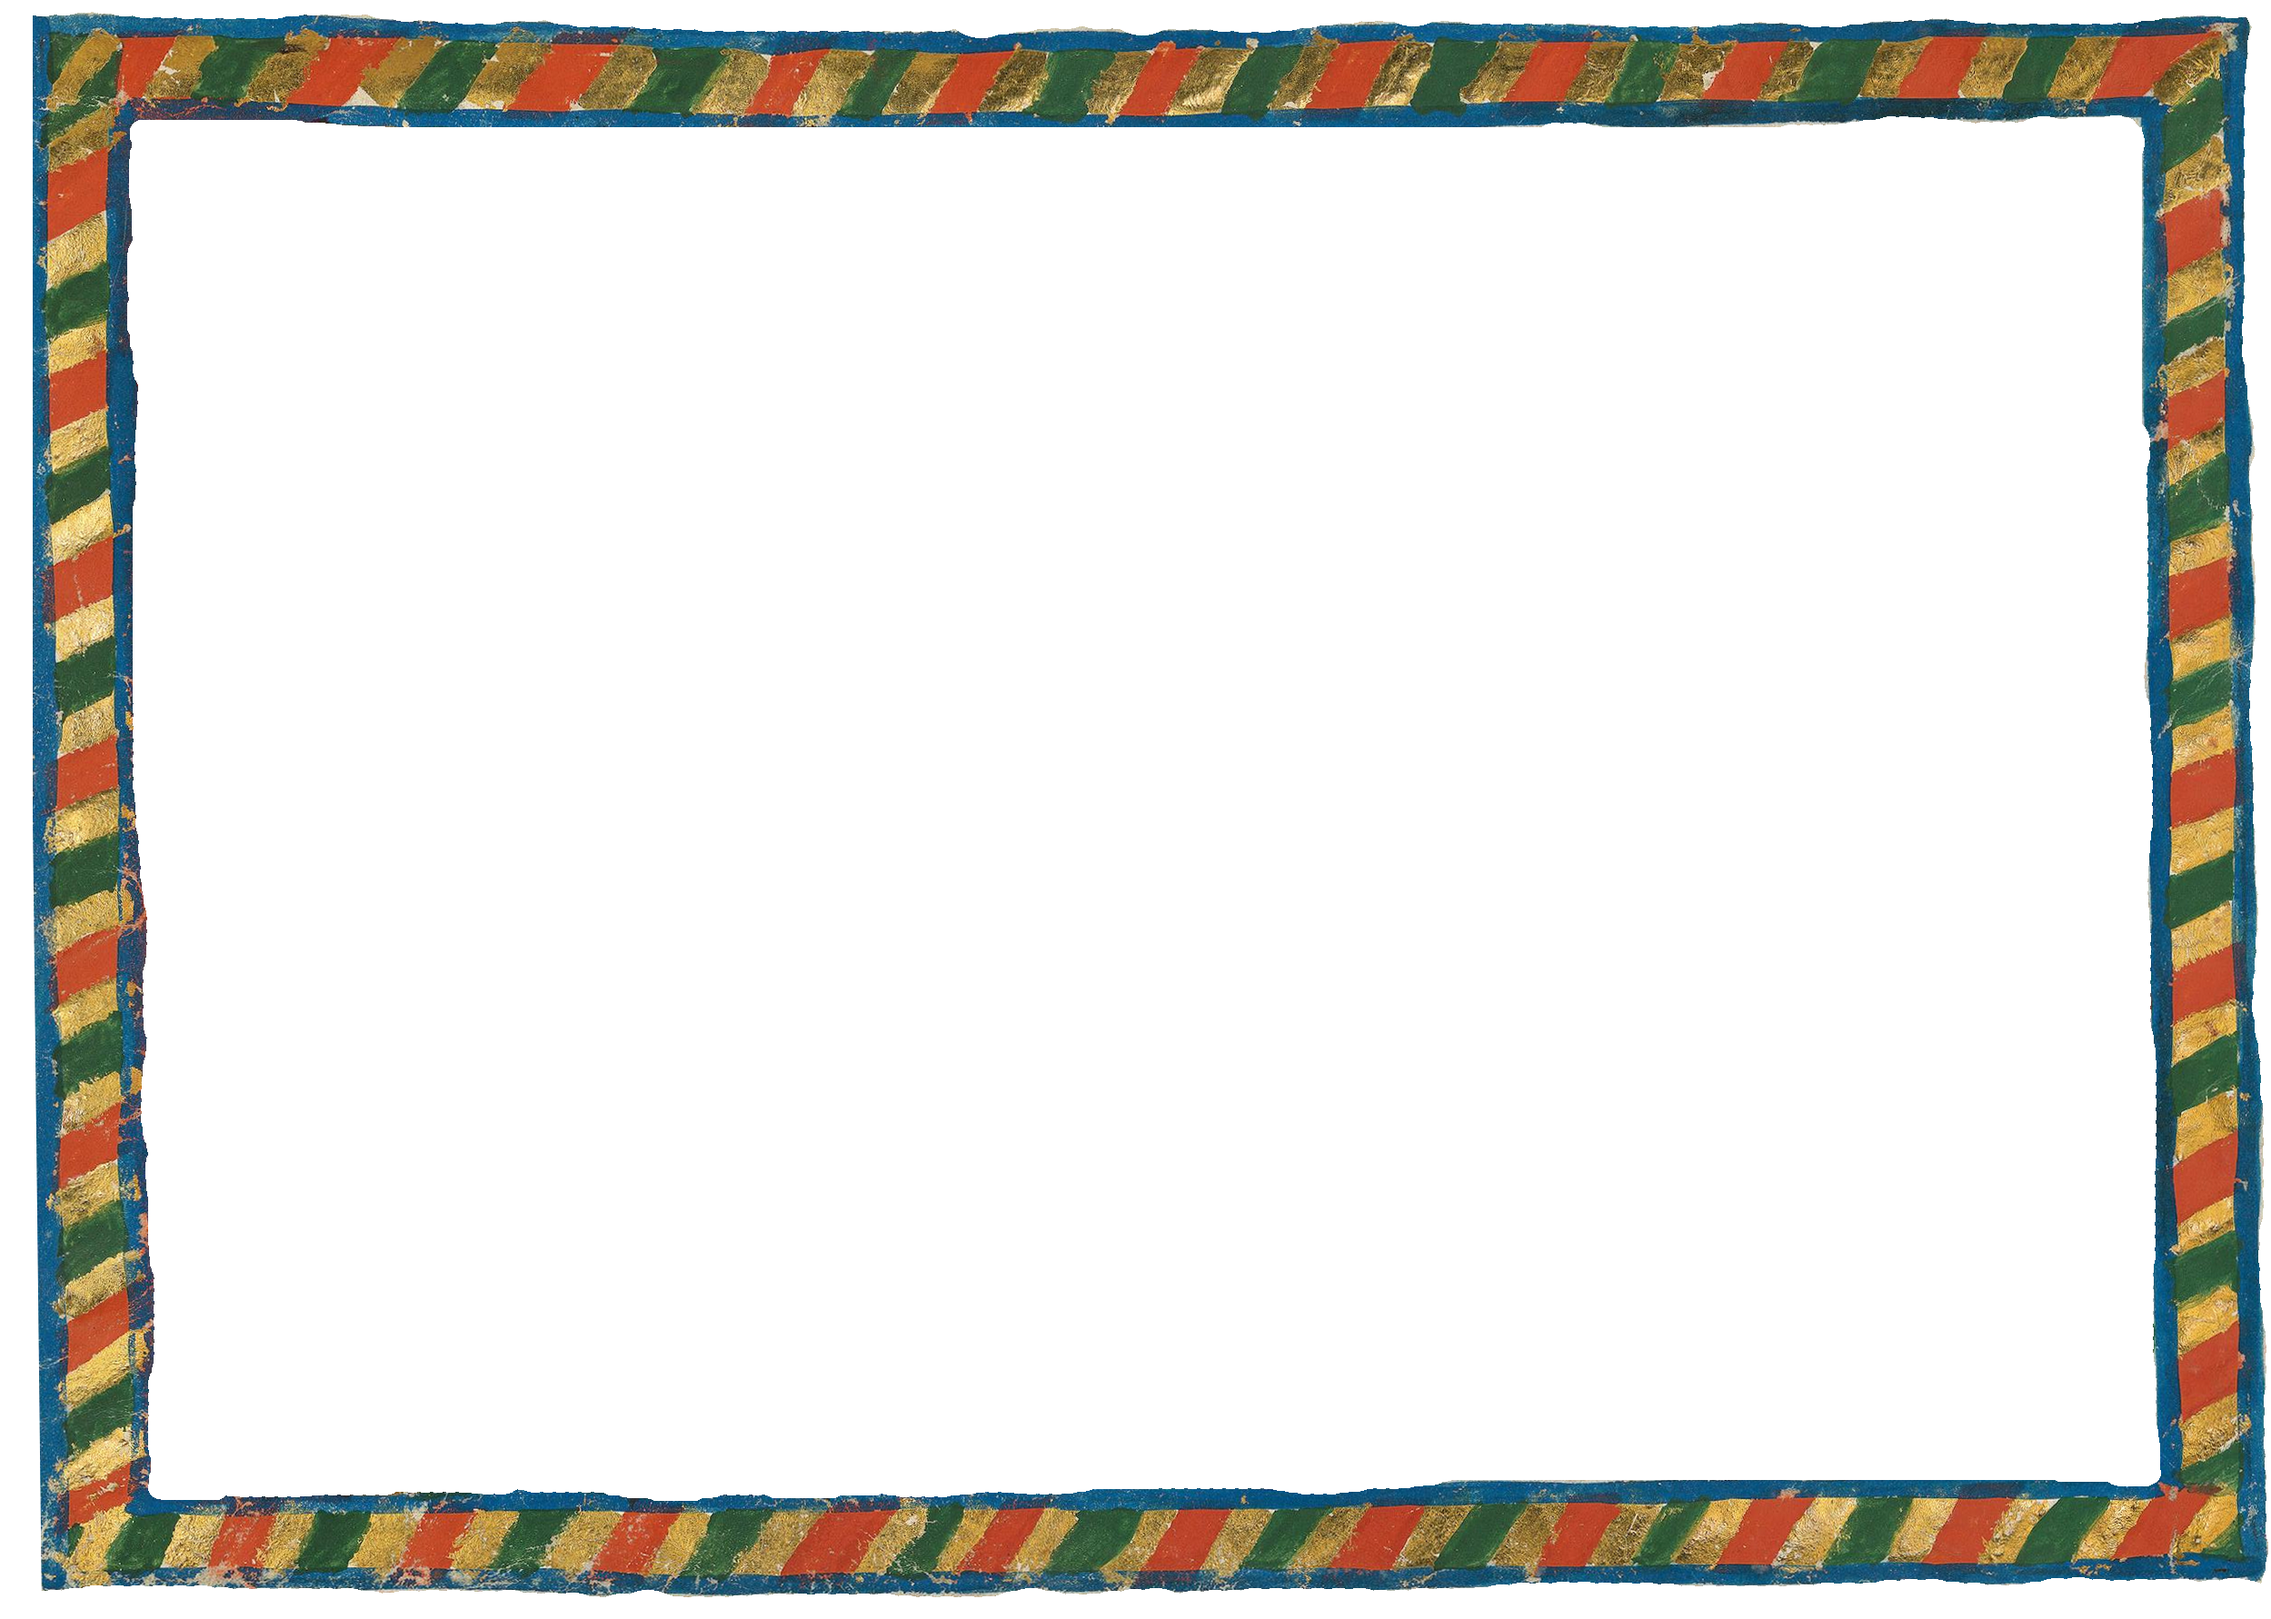
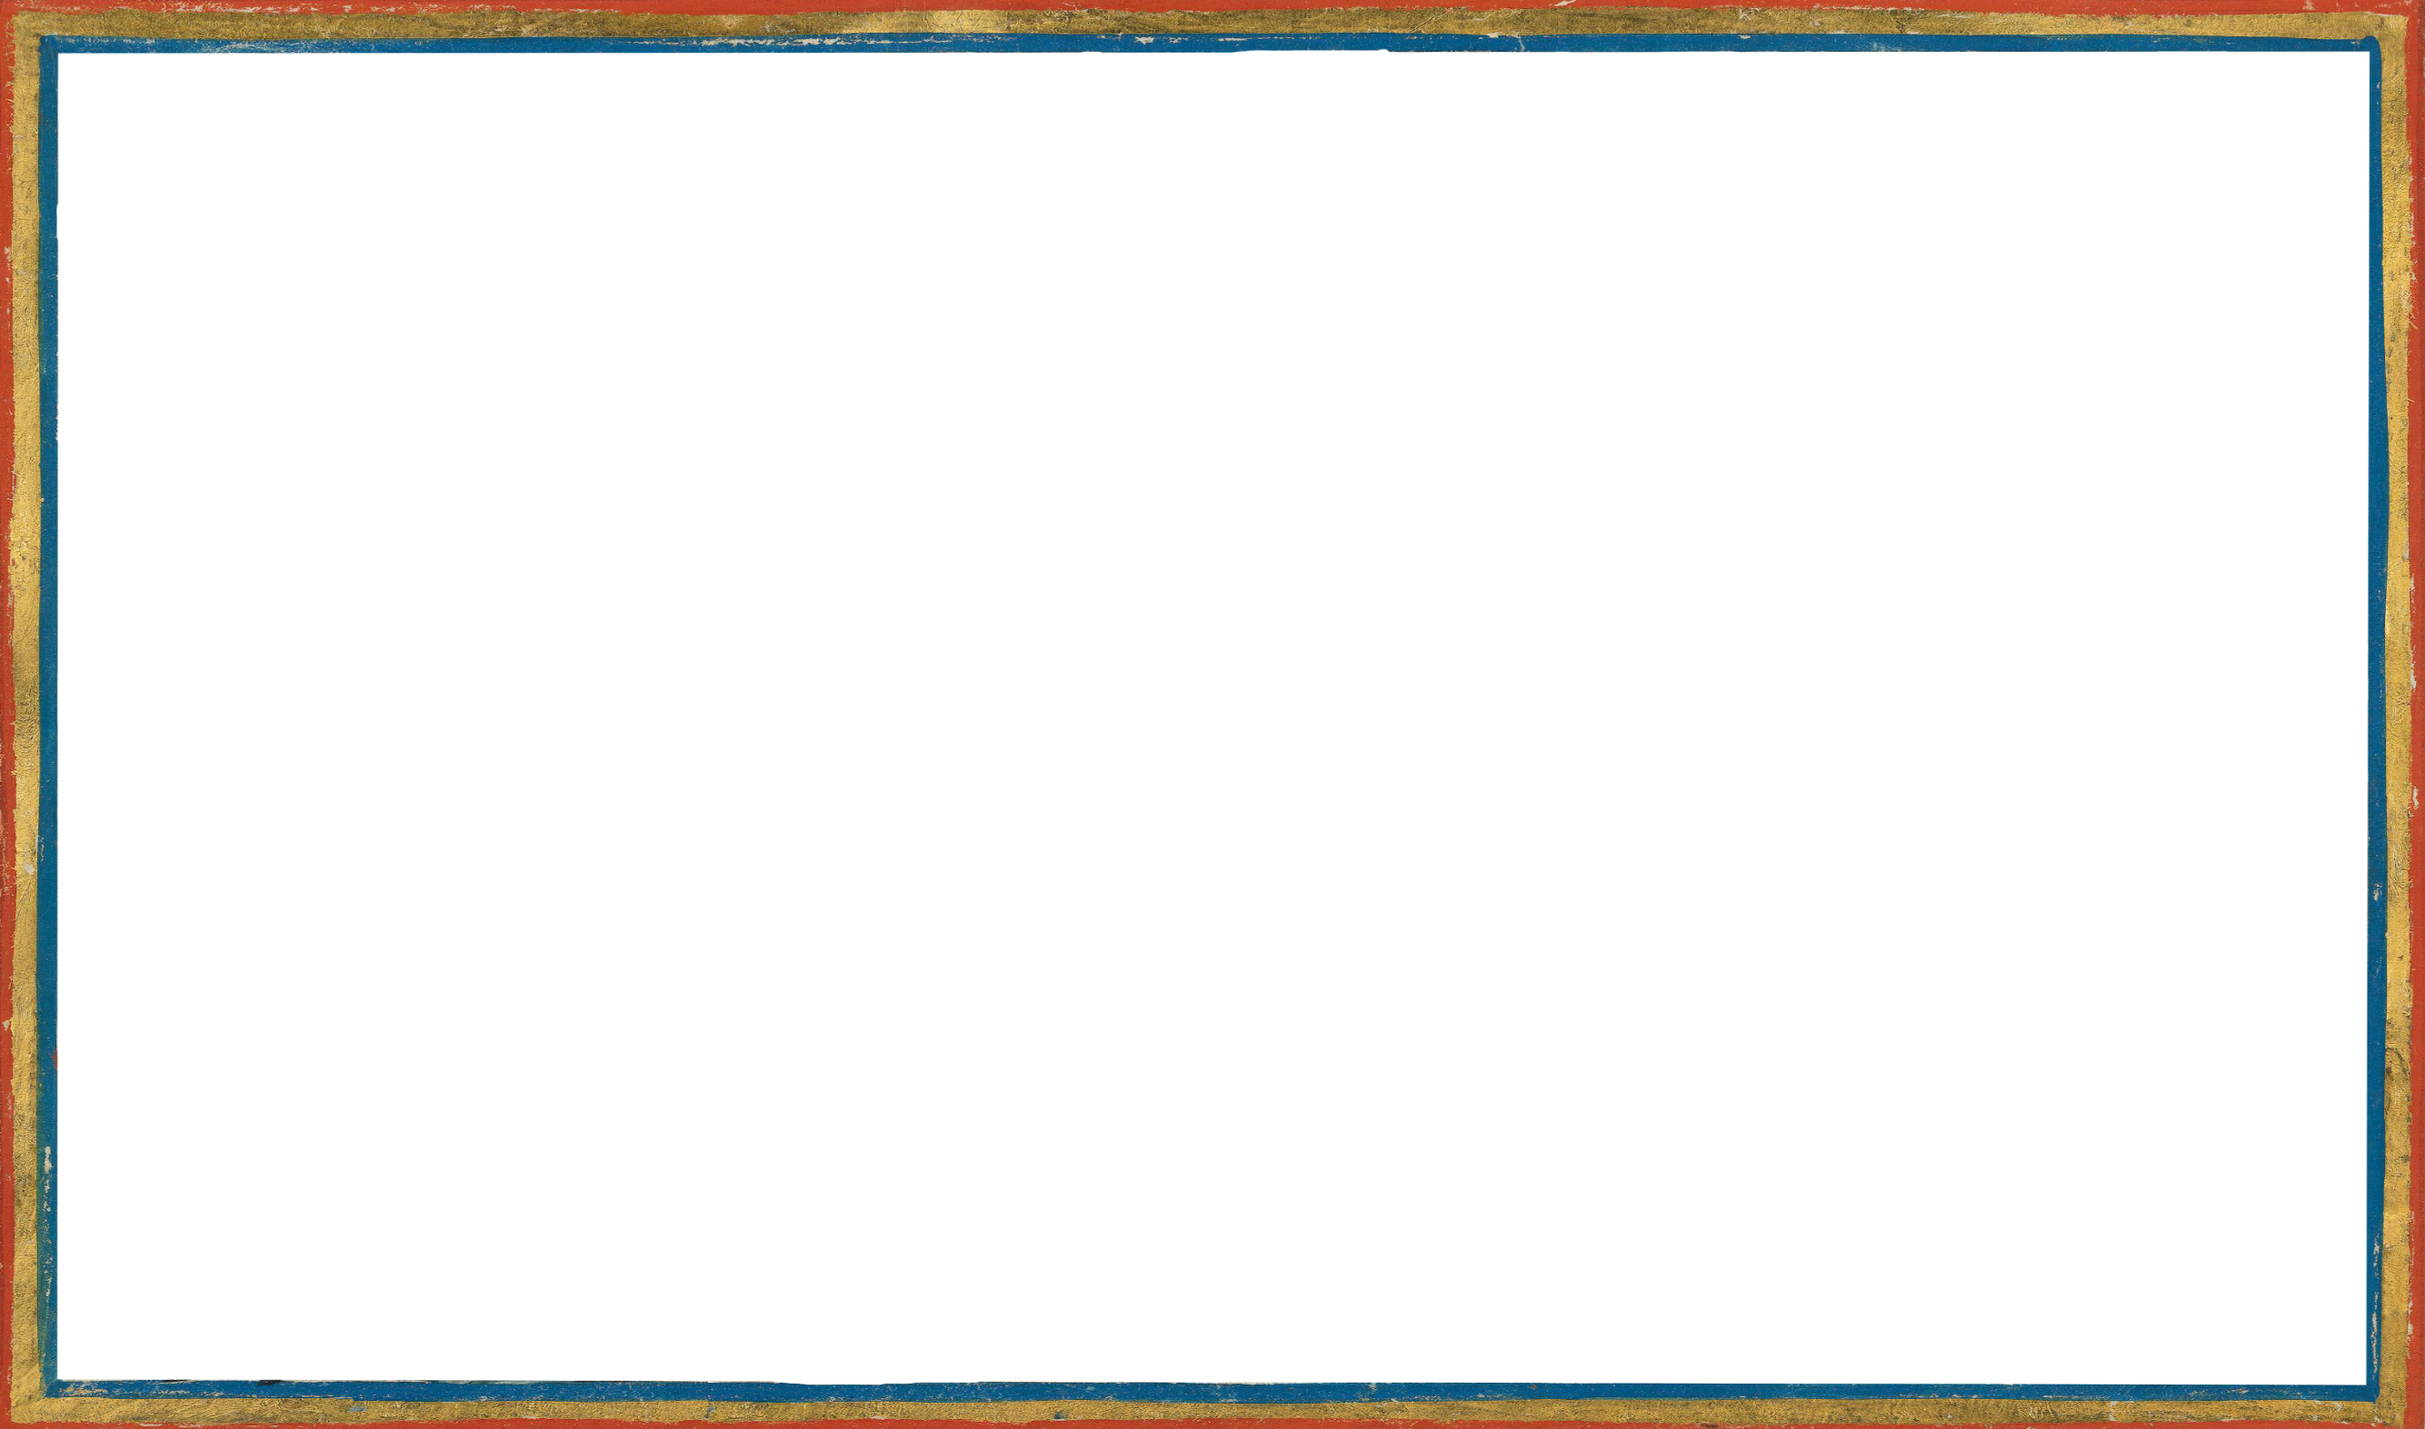
frame?

Changed region(s): [[0.0, 0.0, 1.0, 1.0]]

diff --git a/style.css b/style.css
@@ -35,10 +35,16 @@ body {
     height: 100%;
     justify-items: center;
     min-height: 500px;
+
+/* Css variables - Main layout */
+
+    --container-height: 94vh;
+    --container-width: calc(var(--container-height) * 18 / 9);
 }
 
-/* Container - CSS Variables defined here */
+/* Container - CSS Variables */
 .container {
+
     /* Position variables for interactive elements */
     --dovecot-right: 10%;
     --dovecot-bottom: 18%;
@@ -50,16 +56,30 @@ body {
     --sun-top: 30%;
     
     position: relative;
-    border: solid 10px black;
-    border-radius: 10px;
-    height: 94vh;
+    top: 2vh;
+    height: var(--container-height);
     margin: auto;
-    max-width: 1800px;
-    min-height: 600px;
-    min-width: 1100px;
+    min-height: 800px;
+    max-height: 1000px;
+    min-width: 1420px;
+    max-width: 1750px;
     overflow: hidden;
-    width: 94vw;
+    width: var(--container-width);
     z-index: 100;
+}
+
+.frame {
+    display: none;
+    width: 100%;
+    height: 100%;
+    position: absolute;
+    top: 0;
+    z-index: 20;
+}
+
+.frame img {
+    width: 100%;
+    height: 100%;
 }
 
 /* Shared Caption Styles */
@@ -95,6 +115,7 @@ body {
     position: absolute;
     align-items: center;
     bottom: 10%;
+    left: -5px;
     height: 900px;
     max-width: 100%;
     overflow-x: hidden;

diff --git a/index.html b/index.html
@@ -8,6 +8,9 @@
 </head>
 <body>
 <div class="container">
+        <div class="frame">
+            <img src="./images/frame.png" alt="frame">
+        </div>
         <!-- Layout Elements -->
         <div class="arches">
             <img src="./images/arches.png" alt="arches">
